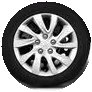
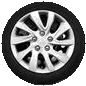
Hero wheels v2: subpixel rim-centroid centers (no wobble), disc r=43 inside tire (no shadow sweep), aspect-ratio scene box (no detach on refresh), rolling-speed sync

diff --git a/app/globals.css b/app/globals.css
@@ -358,34 +358,39 @@ td.num { text-align: right; font-variant-numeric: tabular-nums; }
 
 /* Hero car: fleet sedan specimen under the departure-board headline */
 .lx-hero-car { margin-top: 2.2rem; border-top: 1px solid var(--lx-line-soft); padding-top: 1.4rem; }
-.lx-hero-car-scene { position: relative; width: min(430px, 88%); }
-.lx-hero-car-body { display: block; width: 100%; height: auto; }
+/* aspect-ratio reserves the scene box BEFORE the PNG loads — % positions of the
+   wheel sprites never resolve against a collapsed box (the detach-on-refresh bug) */
+.lx-hero-car-scene { position: relative; width: min(430px, 88%); aspect-ratio: 619 / 221; }
+.lx-hero-car-body { position: absolute; inset: 0; width: 100%; height: 100%; }
 
-/* Wheel sprites sit exactly over the baked-in wheels (positions measured from the art).
-   Car faces left and travels left, so wheels spin counter-clockwise and the road
-   dashes stream rightwards beneath it. */
+/* Wheel sprites sit exactly over the baked-in wheels — centers measured from the
+   artwork to the pixel, sprite center == wheel center by construction (no wobble).
+   Car travels left: wheels spin counter-clockwise at the rolling speed the road
+   dashes imply (v = ω·r), so the car neither skids nor glides. */
 .lx-wheel {
   position: absolute; transform: translate(-50%, -50%);
-  animation: lx-wheel-spin 1.1s linear infinite;
+  animation: lx-wheel-spin 1.35s linear infinite;
   will-change: transform;
 }
-.lx-wheel--rear  { width: 14.22%; left: 18.09%; top: 76.47%; }
-.lx-wheel--front { width: 14.86%; left: 79.81%; top: 76.47%; }
+.lx-wheel--rear  { width: 13.89%; left: 17.33%; top: 77.41%; }
+.lx-wheel--front { width: 13.89%; left: 79.77%; top: 76.69%; }
 @keyframes lx-wheel-spin {
   from { transform: translate(-50%, -50%) rotate(0deg); }
   to   { transform: translate(-50%, -50%) rotate(-360deg); }
 }
 
-/* Road: thin ink rule with gold dashes streaming under the car */
+/* Road: thin ink rule with gold dashes streaming under the car.
+   Dash speed matches wheel surface speed: wheel 13.89% of 430px ≈ 59.7px dia
+   → 187.6px per 1.35s ≈ 139px/s; 104px dash period → 0.75s. */
 .lx-hero-road {
   width: min(430px, 88%); height: 3px; margin-top: 2px;
-  background: repeating-linear-gradient(90deg, var(--lx-gold) 0 26px, transparent 26px 52px);
-  background-size: 52px 3px; background-repeat: repeat-x;
-  animation: lx-road-move 0.9s linear infinite;
+  background: repeating-linear-gradient(90deg, var(--lx-gold) 0 52px, transparent 52px 104px);
+  background-size: 104px 3px; background-repeat: repeat-x;
+  animation: lx-road-move 0.75s linear infinite;
 }
 @keyframes lx-road-move {
   from { background-position: 0 0; }
-  to   { background-position: 52px 0; }
+  to   { background-position: 104px 0; }
 }
 @media (prefers-reduced-motion: reduce) {
   .lx-wheel, .lx-hero-road { animation: none; }
